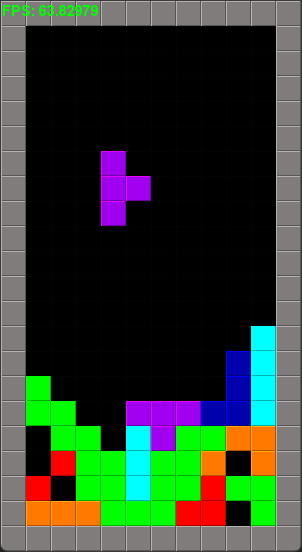
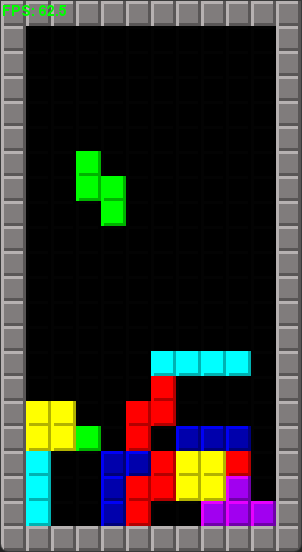
Update the way the game looks.

Changed region(s): [[0.0, 0.0, 1.0, 1.0], [0.2384, 0.2464, 0.5066, 0.4312]]

diff --git a/src/main/kotlin/Tetris2DGraphics.kt b/src/main/kotlin/Tetris2DGraphics.kt
@@ -32,10 +32,22 @@ class Tetris2DGraphics(
         drawable.gl.gL2.glClear(GL.GL_COLOR_BUFFER_BIT)
         gl.prePaint(drawable.context)
         gl.drawRect(0, 0, drawable.surfaceWidth, drawable.surfaceHeight)
+        val width = 25
+        val height = 25
         (0 until 12).forEach { x ->
             (0 until 22).forEach { y ->
                 gl.color = gameCapture.tetris.getColor(x, y)
-                gl.fill3DRect(x * 25, y * 25, 25, 25, true)
+
+                val brighter = gl.color.brighter()
+                val darker = gl.color.darker()
+
+                gl.fillRect((x * 25) + 3, (y * 25) + 3, width - 2, height - 2)
+                gl.color = brighter
+                gl.fillRect((x * 25), (y * 25), 3, height)
+                gl.fillRect((x * 25) + 3, (y * 25), width - 2, 3)
+                gl.color = darker
+                gl.fillRect((x * 25) + 3, (y * 25) + height - 3, width - 3, 3)
+                gl.fillRect((x * 25) + width - 3, (y * 25), 3, height - 3)
             }
         }
         textRenderer.beginRendering(drawable.surfaceWidth, drawable.surfaceHeight)
